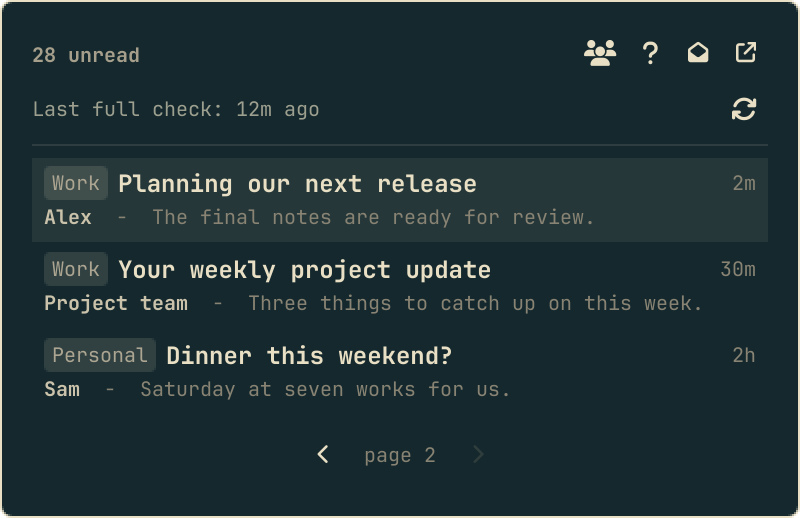
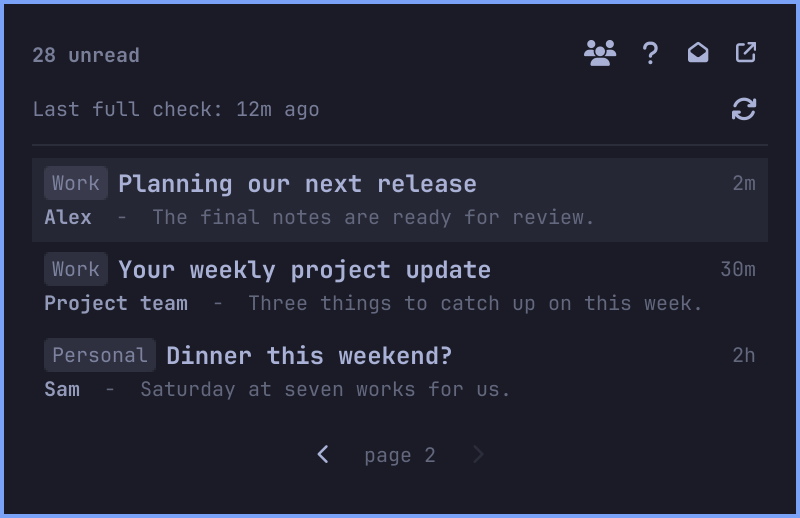
Match preview typography and screenshots to Tokyo Night

diff --git a/docs/preview-prompt.md b/docs/preview-prompt.md
@@ -1,29 +1,63 @@
 # Marketplace preview artwork
 
-`../preview.png` was composed with the built-in imagegen tool. The individual
-screenshots in `screenshots/` are rendered from the plugin's QML with sample
-mail. Use these inputs in order when refreshing the overview:
+`../preview.png` was composed with the built-in imagegen tool. Its bold
+monospaced typography, square borders, and grid take inspiration from
+[Omapicks](https://omapicks.com/).
+
+All five images in `screenshots/` are rendered from the plugin's QML with
+sample mail and the installed **Tokyo Night** theme. The shell's `monospace`
+font resolves to JetBrainsMono Nerd Font on the capture machine. The panels
+use square corners and a 2px blue border, captured at twice their display size.
+
+| Theme role | Color |
+|---|---|
+| Panel background | `#1a1b26` |
+| Text | `#a9b1d6` |
+| Accent and border | `#7aa2f7` |
+| Bright hero text | `#c0caf5` |
+
+Re-render every screenshot from the same theme before refreshing the hero.
+Use these inputs in order:
 
 1. `screenshots/unread-pile.png`
 2. `screenshots/accounts.png`
 3. `screenshots/help.png`
+4. A capture of Omapicks in dark mode, for typography and layout reference only.
 
-Check all UI text against those screenshots before replacing the overview.
+Keep `screenshots/paging.png` and `screenshots/caught-up.png` on that theme too.
+Check all hero UI text against the actual screenshots before replacing it.
 
 ## Generation prompt
 
 ```text
-Use case: compositing / ads-marketing.
-Asset type: a polished landscape GitHub repository and Omarchy plugin marketplace preview.png, 1920x1080.
-Primary request: turn the supplied REAL current product screenshots into an attractive, restrained product hero for "You've Got Mail", an unread-only Omarchy bar widget. The main unread list is the clear hero, with Accounts and keyboard Help as smaller supporting views.
-Input images: Image 1 is the actual unread mail panel and is the primary compositing insert. Image 2 is the actual Accounts panel, a supporting insert. Image 3 is the actual Shortcuts panel, a supporting insert. Preserve these interfaces, icons, typography, sample messages, account names, counts and wording exactly as provided; treat them as screenshots, not inspiration for a redesigned app. Straight-on flat panels, no perspective or distortion. Supporting views may be smaller and the Help view may be a neatly cropped excerpt, but never obscure or crop a word in half.
-Art direction: quietly premium, editorial, warm developer-tool aesthetic suited to Omarchy. Deep charcoal/teal background derived from the screenshots, cream typography, restrained amber accents. Carefully aligned layout with generous margins, subtle fine texture, fine borders and soft subtle shadows that lift the actual screenshot panels. No luminous glow, neon, purple gradient, 3D mailbox, clip art, device frames, browser chrome or busy decoration.
-Hierarchy: bold large product name high in the composition, a short descriptive line below, then an artfully balanced arrangement of the real panels with the unread panel substantially larger than either support. Small simple labels outside the panels may read "UNREAD", "ACCOUNTS", "SHORTCUTS". Keep breathing room and make the main title very legible at thumbnail size.
-Exact display copy:
-small eyebrow: "OMARCHY BAR PLUGIN"
-large title: "You've Got Mail"
+Use case: compositing.
+Asset type: landscape GitHub repository and Omarchy marketplace preview.png, approximately 16:9 at high resolution.
+Task: build a new polished preview for the unread-only Omarchy widget You've Got Mail. Use the REAL screenshots supplied in the user's CURRENT Tokyo Night theme. The previous preview was rejected for an ornate serif headline and green palette; the replacement must use bold monospaced typography and this new navy/blue/lavender theme throughout.
+Inputs and roles:
+Image 1: unread-panel screenshot, the main product insert. Preserve its contents.
+Image 2: Accounts screenshot, supporting product insert. Preserve its contents.
+Image 3: Shortcuts screenshot, supporting product insert. Preserve its contents.
+Image 4: Omapicks website screenshot, STYLE REFERENCE ONLY for bold monospace heading, tidy grid, flat navy surfaces, thin rules and square edges. Do not insert any Omapicks content, ranking interface, branding, words, counts or controls.
+Typography: use a crisp heavyweight modern MONOSPACED typeface for the headline, like JetBrains Mono Bold or Cascadia Mono Bold, closely matching the large heading in Image 4. Letterforms must be recognizably fixed-width and terminal-like, with simple blocky geometry. NO SERIF FONT anywhere, no calligraphy, no elegant editorial display font. Small copy is also clean monospace. Use lowercase for the marketing title and bracketed section labels inspired by Omapicks.
+Palette: exact flat Tokyo Night navy background #1a1b26, slightly lifted panels #24283b where appropriate, lavender foreground #c0caf5 and #a9b1d6, muted #949bb5, thin divider #414868, blue accent #7aa2f7. The screenshots' original navy surfaces and bright blue square borders must remain. No green/teal surfaces, mint, cream, gold or orange. No gradients, grain, paper texture, neon, glow, shine or decorative illustrations.
+Layout: organized, sharply aligned, flat and spacious. A large left-aligned monospace title and short subtitle above a product gallery. The unread panel is substantially larger and the clear focus; Accounts and Shortcuts sit beside it as smaller supporting views. Preserve the screenshot panels' aspect ratios and internal layout, use rectangular square corners, no perspectives or warping. Do not stretch the screenshots, rewrite their text, simplify their icons, duplicate a row, invent features, or change counts. If needed use a clean crop of the Shortcuts view that ends between complete rows. Avoid overlapping any useful content. The result should read clearly as an attractive app preview even as a thumbnail, with generous outer margins and crisp UI text.
+Exact marketing text:
+small eyebrow: "[ omarchy bar plugin ]"
+large headline: "you've got mail"
 subtitle: "Unread mail only. One pile, across every account."
-small footer: "Gmail · Outlook · Fastmail · IMAP · HEY"
-tiny footer note: "Sample mail shown"
-Use an elegant clean typographic pairing with a strong title and monospace supporting details compatible with the actual panel. No invented features, notification bubbles, compose buttons, search field, AI badges, logo redesign, release numbers, fake desktop environment, URLs or additional marketing claims. Deliver one finished full-bleed landscape image.
+section labels: "[ unread ]", "[ accounts ]", "[ shortcuts ]"
+footer: "Gmail · Outlook · Fastmail · IMAP · HEY"
+small footer note: "Tokyo Night · sample mail"
+No other marketing text, URLs, browser chrome, window titlebars, fake desktop, logos, version numbers, notification features, compose buttons, AI badges or watermark.
+Deliver one finished full-bleed landscape preview image with the clear monospace visual character of Omapicks and the exact current-theme screenshots.
+```
+
+## Text correction prompt
+
+```text
+Use case: text-localization.
+Image 1 is the edit target: the finished You've Got Mail preview.
+Image 2 is a reference showing the real Accounts panel and the correct spelling.
+Make exactly one small correction to Image 1: in the middle Accounts panel, the final blue link under "Setup guide" currently incorrectly reads "Open suide". It must read EXACTLY "Open guide" (O p e n, space, g u i d e), matching Image 2. Make the lowercase g unambiguous. Preserve the blue link color, size and monospaced font.
+Do not change the rest of the image. Keep the large bold monospaced "you've got mail" heading, Tokyo Night navy/blue/lavender palette, all other wording and numbers, panel positions, dimensions, margins, square borders, footer and sample mail exactly unchanged. No other edits or new text.
 ```

diff --git a/README.md b/README.md
@@ -11,7 +11,8 @@ there for Outlook.com, Gmail OAuth, or HEY.
 
 ## Preview
 
-Version 2.8.0 overview, composed from screenshots with sample mail only.
+Version 2.8.0 in the **Tokyo Night** theme, using sample mail only.
+The overview is composed from the individual screenshots below.
 
 <p align="center">
   <img src="preview.png" alt="You've Got Mail — unread mailbox, Accounts, and Shortcuts overview" width="960">
